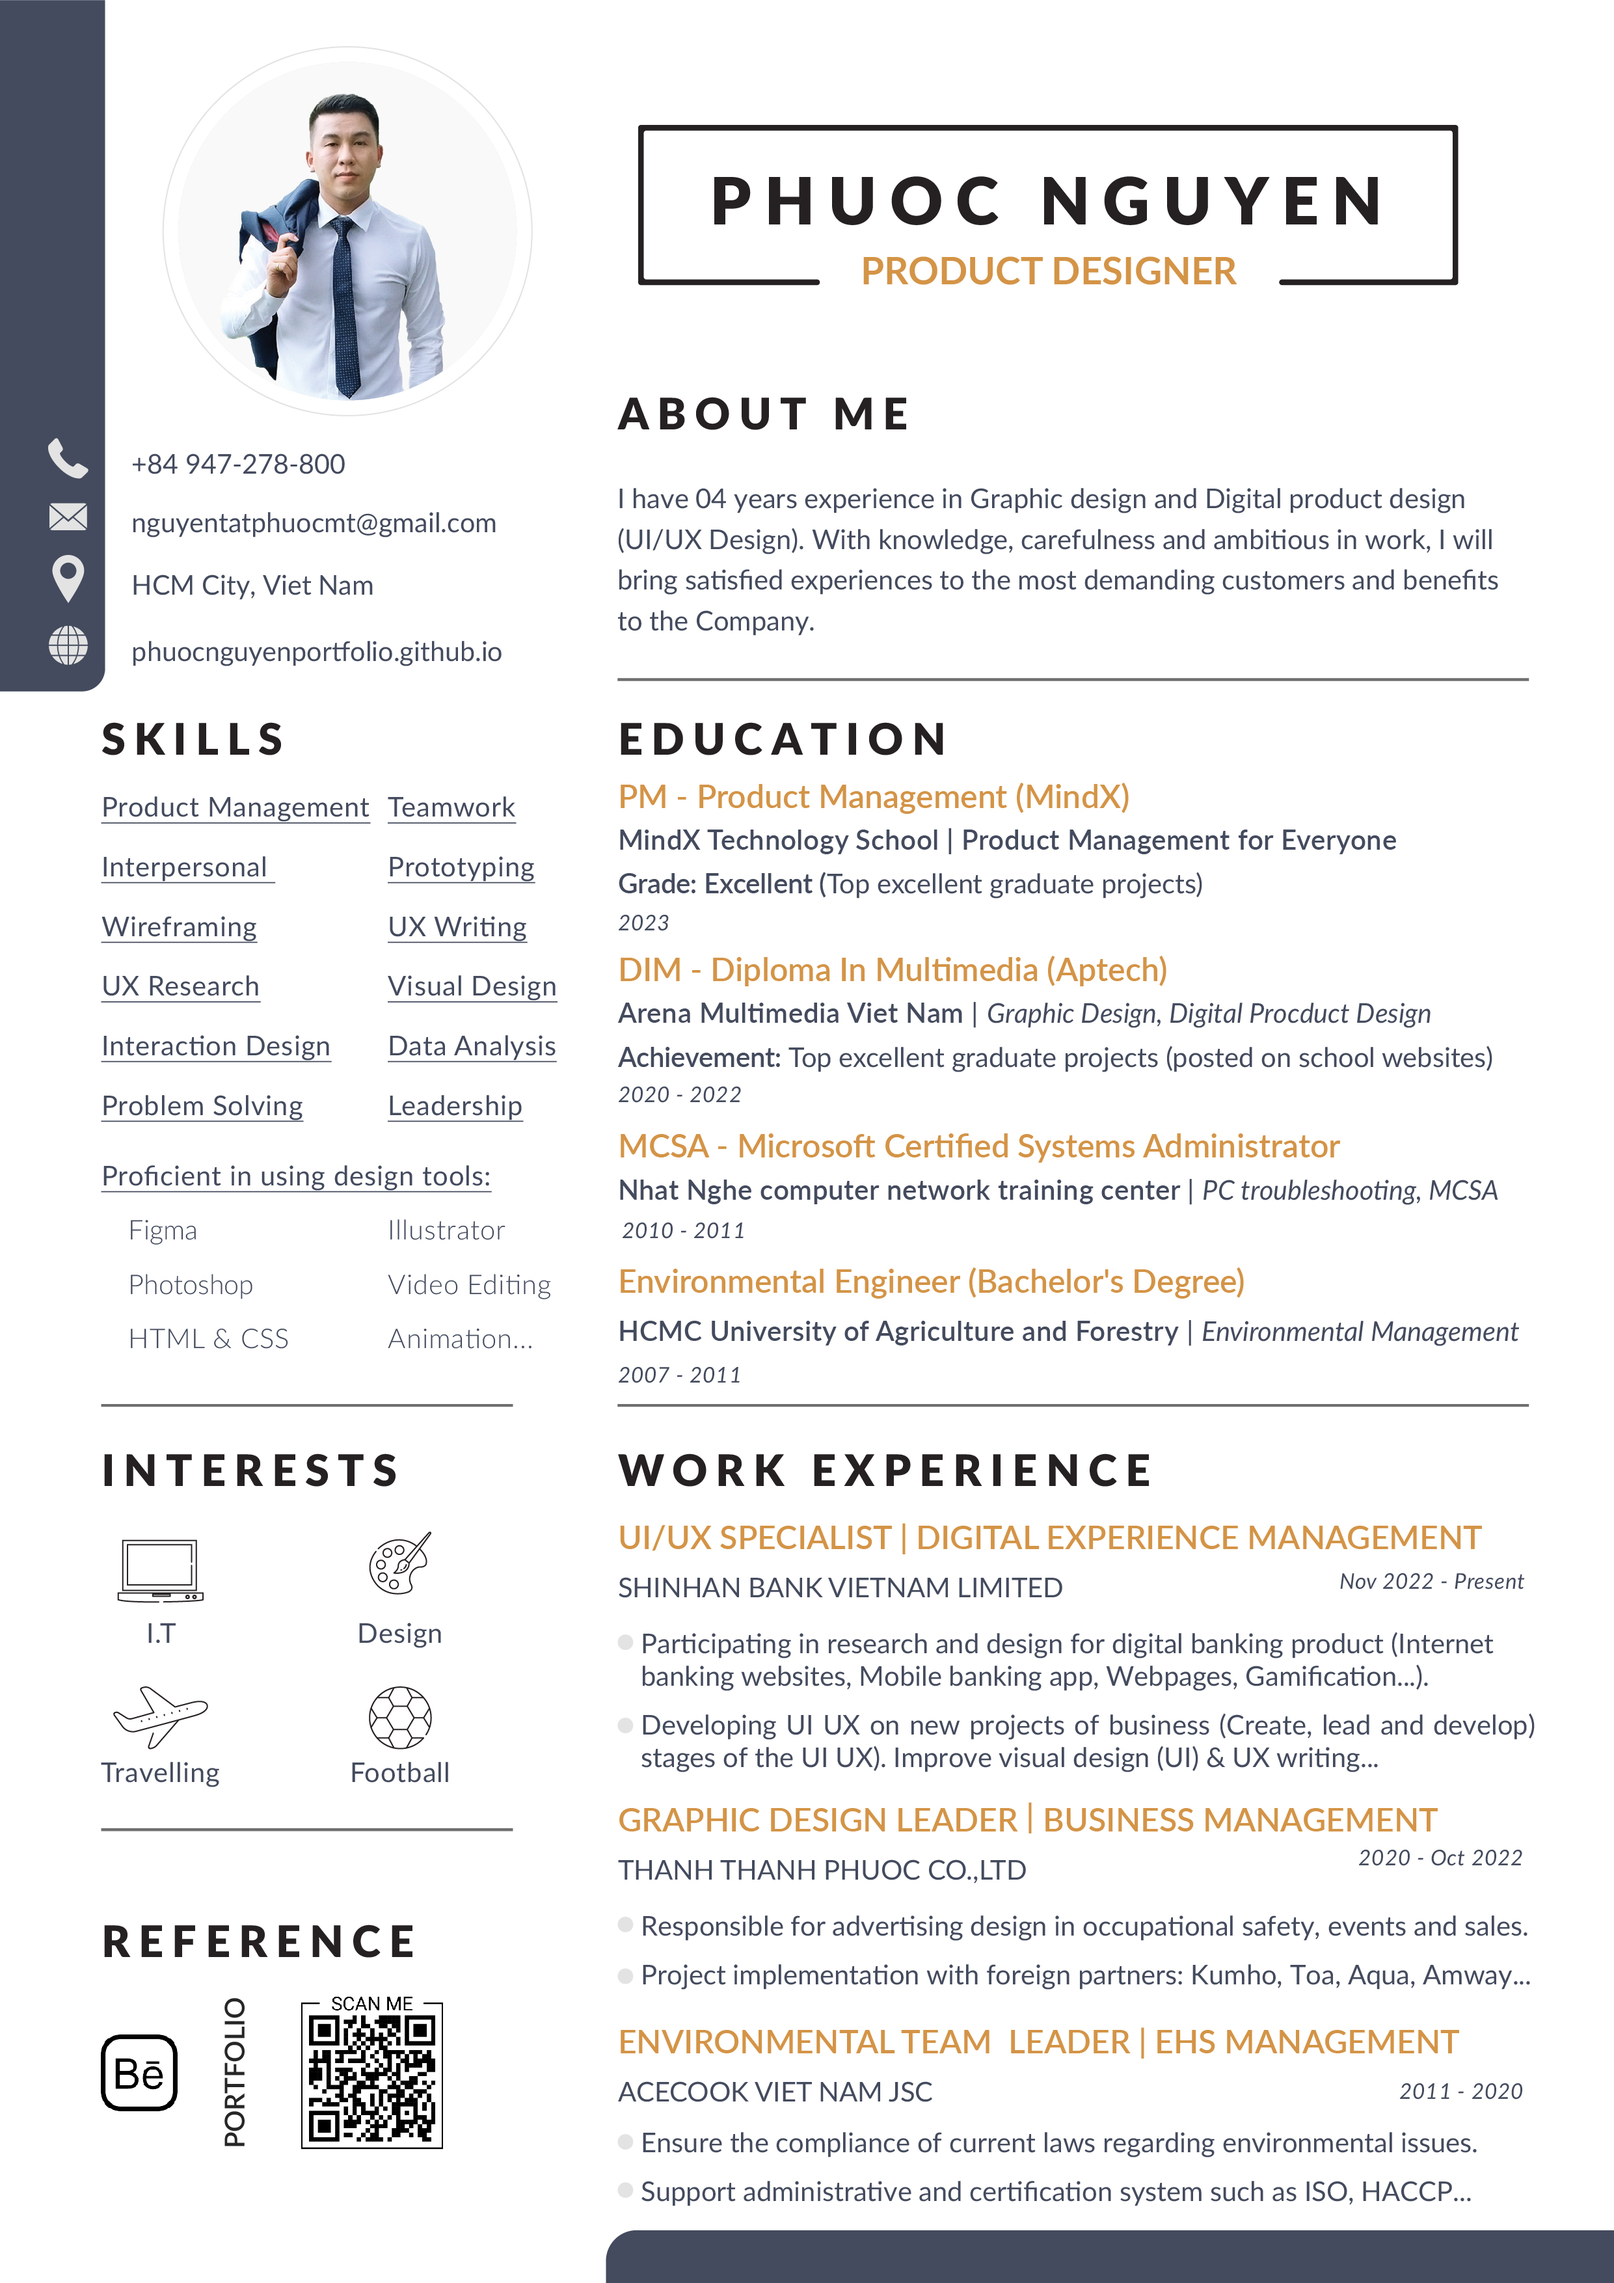
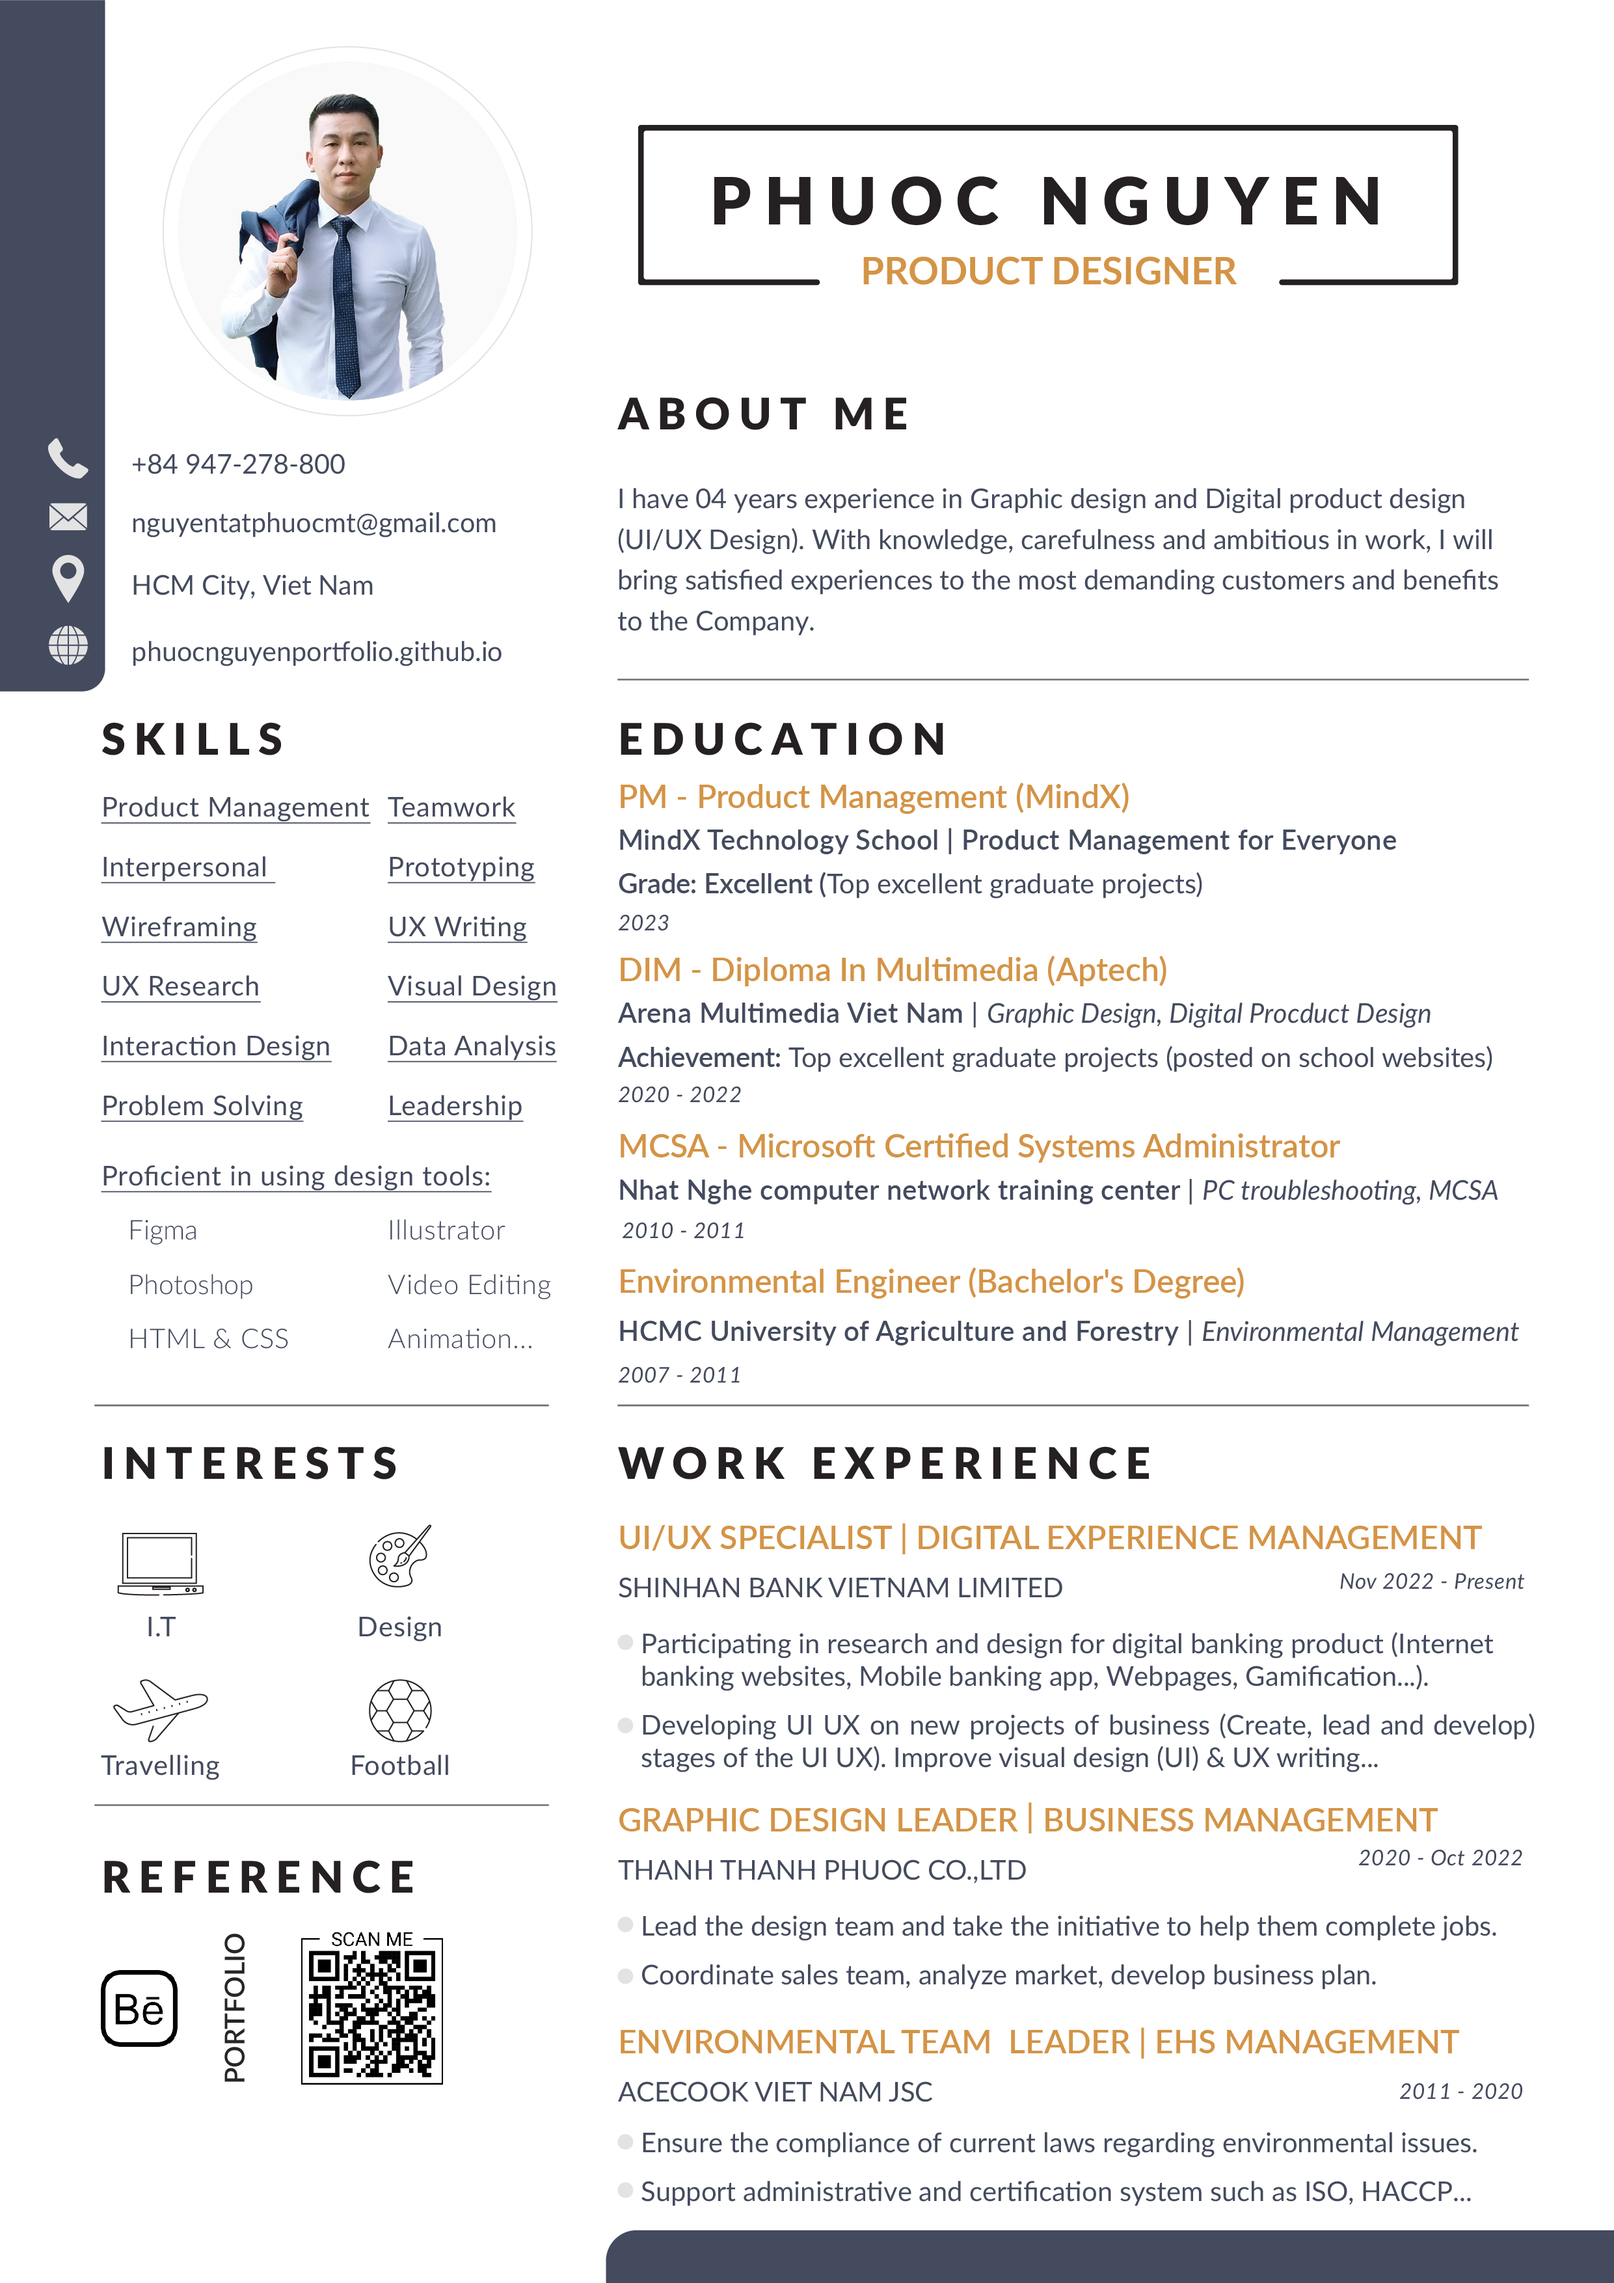
VanLang_Apply 12.23

diff --git a/index.html b/index.html
@@ -215,7 +215,7 @@
               <h4>PM - Product Management(MindX) </h4>
               <h5>2023</h5>
               <p>MindX Technology School | <a href="https://drive.google.com/file/d/1W6hv2IkvhR7kQQVqFkJloXa9KkKbqJSB/view?usp=sharing">Product Management for Everyone</a></p>
-<p>Grade: Excellent (Top excellent graduate projects)</p>
+<p>Grade: Excellent (Top excellent graduate projects).</p>
              
             </div>  
 			
@@ -236,7 +236,7 @@
               <h4>Environmental Engineer</h4>
               <h5>2007 - 2011</h5>
               <p>HCMC University of Agriculture and Forestry | Environmental management</p>
-              <p>Degree: Bachelor</p>
+              <p>Degree:Bachelor of Engineering</p>
             </div>
           </div>
           <div class="col-lg-6" data-aos="fade-up" data-aos-delay="100">
@@ -255,10 +255,13 @@
 				<h5>THANH THANH PHUOC CO.,LTD</h5>
               <h5>2020 - Oct 2022</h5>
               <ul>
-                <li>Responsible for advertising design in occupational safety, events and sales.</li>
-                <li>Sales team coordinator, customer behavior and market analysis, develop  business plans. </li>
+                <li>Take charge of the conceptualization and design of interactive projects from concept to completion.</li>
+                <li>Coordinate sales team, analyze market, develop business plan. Negotiate prices for productions needed. </li>
               </ul>
-            
+            <ul>
+              <li>Lead the design team and take the initiative to help them complete jobs.</li>
+              
+              </ul>
           
               <h4>Environmental TEAM  Leader | EHS Management</h4>
 				<h5>ACECOOK VIETNAM JSC</h5>
